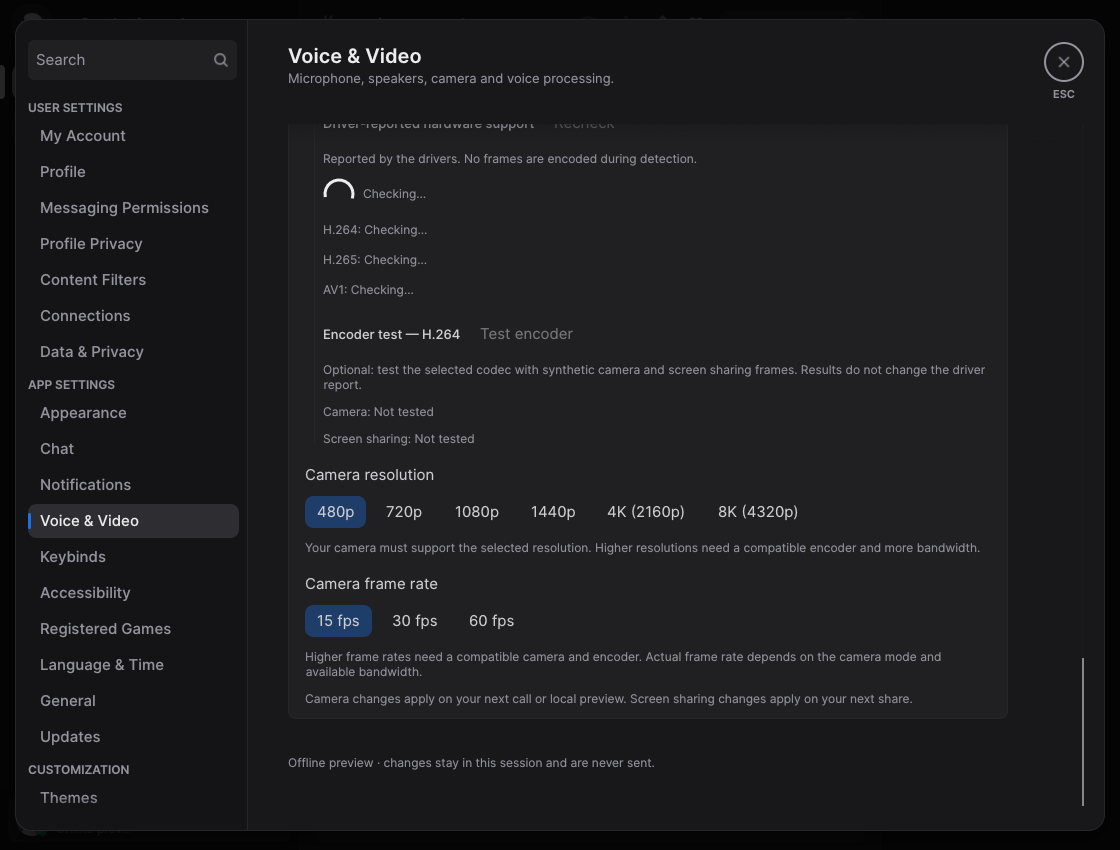
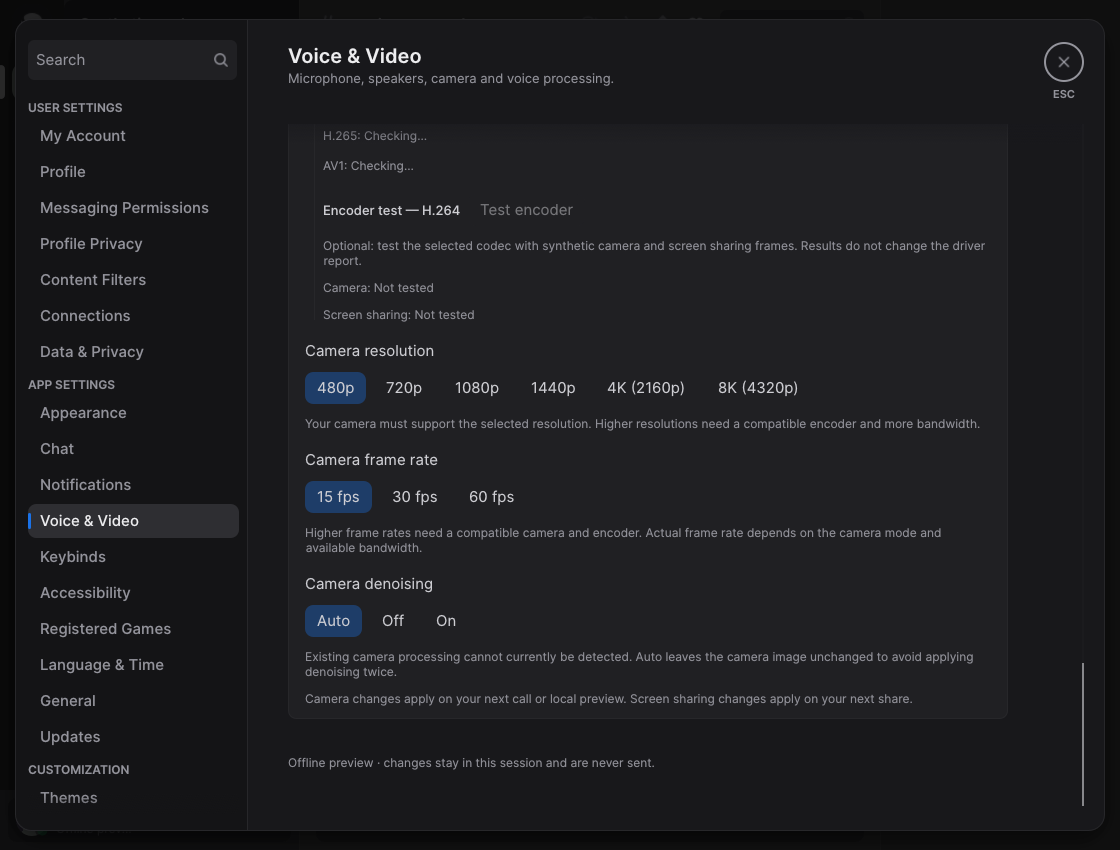
docs(camera): refresh manual denoising evidence

Changed region(s): [[0.25, 0.1529, 0.875, 0.7953], [0.4375, 0.1224, 0.4688, 0.1529]]

diff --git a/docs/pr-evidence/webcam-denoising/README.md b/docs/pr-evidence/webcam-denoising/README.md
@@ -1,10 +1,17 @@
 # Webcam denoising evidence
 
-The synthetic Voice & Video view was captured at 1120 × 850, scale 1, dark theme,
-with the same scroll input and software rendering. The baseline uses the `c991521b`
-profile-preview release binary, whose tree matches fork main `d1fb20e3`. The after
-view uses the `4204c3cb` profile-preview debug build. These are UI fixtures, not live
-camera captures, and their different build profiles are not a performance comparison.
+The current synthetic Voice & Video pair shows the removal of Auto and the manual
+**Off / ATADenoise** choices. Both captures use debug profile-preview builds at
+1120 × 850, scale 1, dark theme, the same scroll input and software rendering.
+The before binary is from `4204c3cb`, whose application source matches `5220039d`;
+the after binary is the manual-selection update at `f47ac7dc`. These are UI fixtures,
+not live camera captures or release performance evidence.
+The updated controls were also inspected in a 720 × 900 light-theme fixture;
+the two choices and their descriptions remain readable at that width.
+
+The [original feature screenshots](https://github.com/MCShotty/Serein/tree/5220039d9035e6965356abbb74675c3b2abef8cb/docs/pr-evidence/webcam-denoising)
+remain pinned to their original revision: before used the `c991521b` release fixture
+(the same tree as fork main `d1fb20e3`), and after used the `4204c3cb` debug fixture.
 
 An isolated CPU filter probe used the pinned private FFmpeg build and the C bridge
 compiled with `-O2` on Linux x86-64, Intel Xeon Platinum 8573C, with five available
@@ -15,8 +22,9 @@ and its copies; it is not end-to-end camera latency, an FPS guarantee, a compari
 against a disabled pipeline, or evidence for other hardware or moving scenes.
 
 Real webcam quality, synchronization, CPU/GPU use and package-size changes have not
-been measured. BSVD and automatic detection of existing camera processing are not
-implemented. See the pull request for current CI and installer status.
+been measured. The current scope is manual FFmpeg filtering only, with Off as the
+default; BSVD and hardware-denoising detection are deferred. See the pull request
+for current CI and installer status.
 
 CI replay compared fork main `d1fb20e3`, implementation `4204c3cb`, and upstream
 nightly `38e46b8f` (`v1.0.0-nightly.20261026.65`) in release mode with one warmup
@@ -35,3 +43,28 @@ The macOS samples varied substantially and affinity was unavailable. The result 
 an unresolved timing concern, not proof of its cause or of equal performance.
 The Windows and Linux samples used CPU affinity. Source measurements are in the
 [CI run](https://github.com/MCShotty/Serein/actions/runs/40492101392).
+
+The manual-selection update `f47ac7dc` was also compared with fork main `d1fb20e3`
+and nightly `2d0165bf` (`v1.0.0-nightly.20261027.67`) in
+[CI](https://github.com/MCShotty/Serein/actions/runs/40535040574). Each revision used
+Rust 1.98.1, optimization level 3, thin LTO, one codegen unit, stripped symbols,
+line-table debug information and panic abort, with one warmup and five alternating
+measured samples per workload. Hosted environments were Windows Server 2025 x64
+(four logical CPUs), Linux 6.17 x64/glibc 2.39 (four), and macOS 26.6.2 ARM64 (three).
+
+| Runner / workload | Nightly (ms) | Fork main (ms) | `f47ac7dc` (ms) | Fork delta |
+| --- | ---: | ---: | ---: | ---: |
+| Windows x64 / reducer | 108.027 | 111.535 | 111.124 | −0.4% |
+| Windows x64 / wide channels | 228.962 | 11.665 | 11.810 | +1.2% |
+| Linux x64 / reducer | 79.392 | 87.338 | 86.751 | −0.7% |
+| Linux x64 / wide channels | 194.747 | 9.369 | 9.293 | −0.8% |
+| macOS ARM64 / reducer | 92.289 | 93.041 | 89.256 | −4.1% |
+| macOS ARM64 / wide channels | 145.782 | 6.827 | 7.575 | +11.0% |
+
+Windows and Linux used single-CPU affinity; macOS affinity was unavailable. The
+Linux fork/main and updated reducer executables were byte-identical, so their small
+timing differences do not establish an optimization. The earlier macOS reducer
+slowdown was not reproduced by this sample; its cause remains unisolated. The current
+macOS wide-channel result is another unresolved timing concern: updated samples
+ranged from 6.519–11.260 ms, compared with 6.652–7.600 ms for fork main. These core
+workloads do not run camera filtering, a UI, helper processes or native capture.
